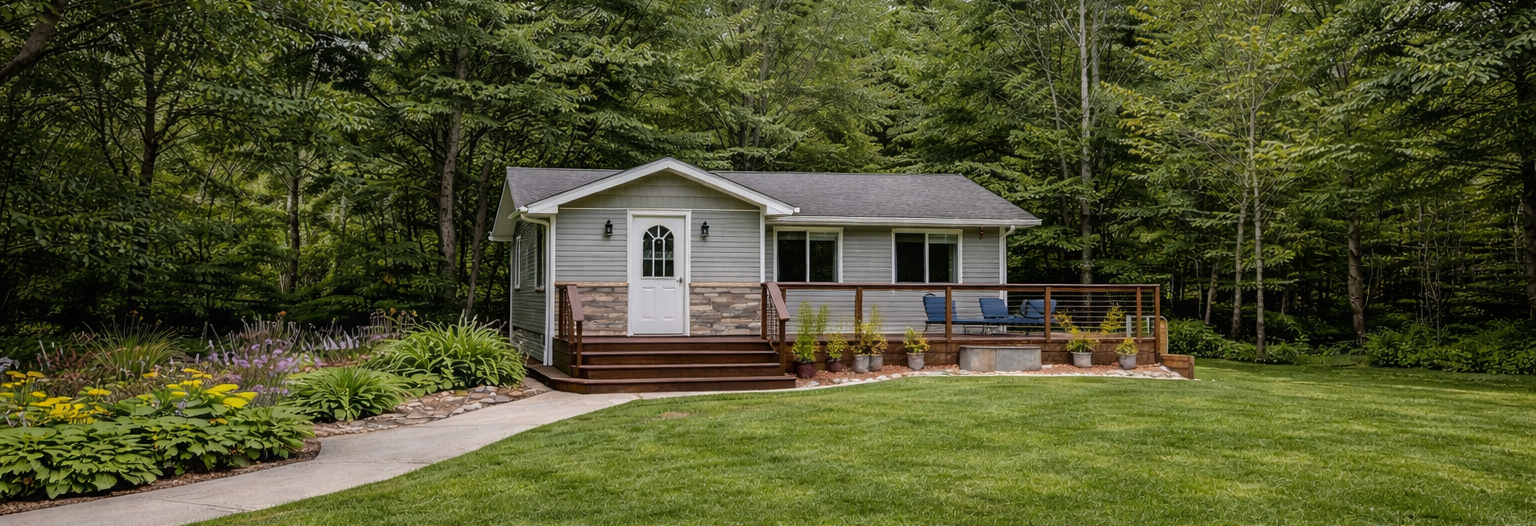
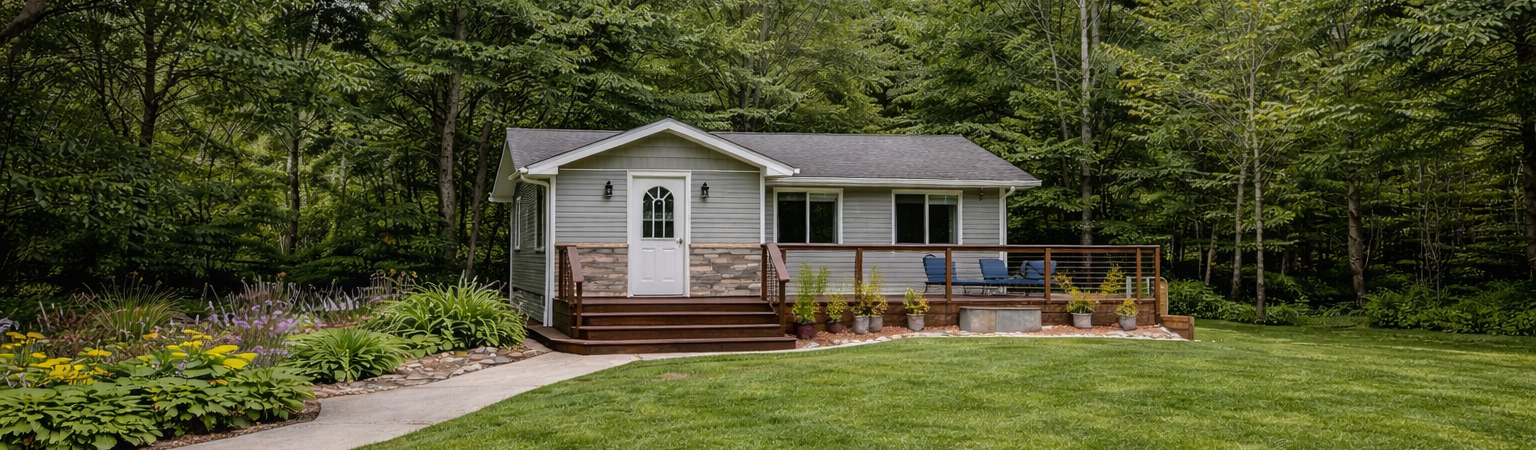
a5jhjs7

diff --git a/css/home_page.css b/css/home_page.css
@@ -1,5 +1,6 @@
 :root {
   --primary: #27ae60;
+  --darker-green :#138944;
   --dark: #000000;
   --light: #f8f9fa;
   --box-bg: #ffffff;
@@ -69,7 +70,7 @@ body {
 
 .hero-image {
   width: 100%;
-  height: 526px;
+  height: 450px;
   background-image: url("../images/landscape.png");
   background-size: cover;
   background-position: center;
@@ -94,7 +95,7 @@ body {
 
 .welcome-box h2,
 .about-box h2 {
-  color: var(--primary);
+  color: var(--darker-green);
   margin-bottom: 14px;
   font-size: 1.8rem;
 }
